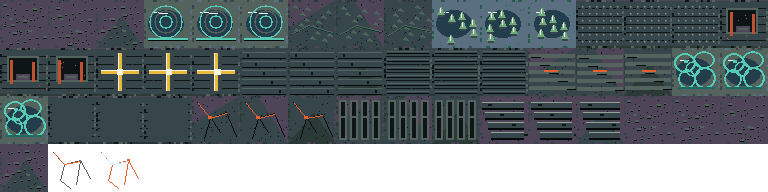
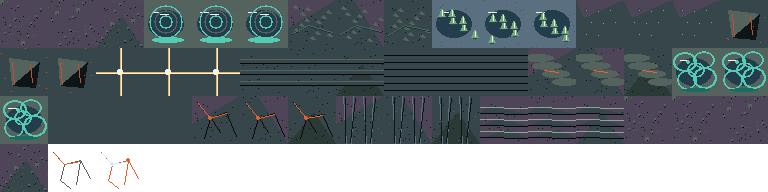
fix: drop square stamps from floor tiles
Remove perimeter edge chips, deck seam grids, and rect grit so walkable ground tiles as scatter, ledges, and strokes instead of a 48px box lattice.

diff --git a/src/art/paint/floors.ts b/src/art/paint/floors.ts
@@ -4,7 +4,7 @@ import { BIOME_FLOOR_TINT, Material, Theme } from '../../scenes/theme';
 import { envPalette } from '../palette';
 import type { Frame } from '../pack';
 import { Px, TILE } from '../px';
-import { biteEdges, grit } from '../shade';
+import { grit } from '../shade';
 
 const SECTORS: SectorId[] = [
   'plains',
@@ -48,6 +48,7 @@ function accentOf(sector: SectorId): number {
   return Theme.inkDim;
 }
 
+/** Continuous bedding — no perimeter chips or seam grid, or every tile stamps squares. */
 function paintBed(px: Px, sector: SectorId, variant: number): void {
   const tint = BIOME_FLOOR_TINT[sector];
   const family = familyOf(sector);
@@ -58,25 +59,18 @@ function paintBed(px: Px, sector: SectorId, variant: number): void {
     if (c === 0) px.fillTriangle(0, 0, TILE, 0, 0, 28, mix(bed, Theme.inkMute, 0.18));
     else if (c === 1) px.fillTriangle(TILE, 0, TILE, TILE, 18, 0, mix(bed, Theme.inkMute, 0.18));
     else px.fillTriangle(0, TILE, TILE, TILE, 26, 16, mix(bed, Theme.groundDeep, 0.2));
-    grit(px, Material.recess, 28, 11 + variant * 9);
-    biteEdges(px, mix(bed, Theme.groundDeep, 0.24), mix(bed, Theme.inkMute, 0.18), variant);
+    grit(px, Material.recess, 22, 11 + variant * 9);
   } else if (family === 'wet') {
     const wet = mix(Material.brine, tint, 0.35);
     px.fillRect(0, 0, TILE, TILE, wet);
     px.fillEllipse(22 + variant, 24, 18, 14, mix(Material.brine, accentOf(sector), 0.18));
-    px.fillRect(8, 12, 9, 1, Theme.inkBright);
-    grit(px, Theme.biolumDeep, 14, 30 + variant);
-    biteEdges(px, mix(wet, Theme.groundDeep, 0.2), mix(wet, Theme.inkBright, 0.12), variant + 3);
+    px.line(8, 12, 16, 12, Theme.inkBright);
+    grit(px, Theme.biolumDeep, 12, 30 + variant);
   } else {
     const deck = mix(Material.deck, tint, 0.16);
     px.fillRect(0, 0, TILE, TILE, deck);
-    px.fillRect(0, 0, TILE, 1, mix(deck, Theme.inkMute, 0.25));
-    px.fillRect(0, TILE - 2, TILE, 2, mix(deck, Theme.groundDeep, 0.28));
-    for (let y = 8; y < 42; y += 8) {
-      px.fillRect(2, y, TILE - 4, 1, Material.recess);
-    }
-    grit(px, Theme.panelEdge, 18, 50 + variant * 4);
-    biteEdges(px, Material.recess, Theme.inkMute, variant + 7);
+    px.fillTriangle(0, 0, TILE, 0, 8, 18, mix(deck, Theme.inkMute, 0.12));
+    grit(px, Theme.panelEdge, 10, 50 + variant * 4);
   }
 }
 
@@ -85,32 +79,29 @@ function motif(px: Px, sector: SectorId, variant: number): void {
   const accent = accentOf(sector);
   switch (sector) {
     case 'plains':
-      for (let i = 0; i < 22; i++) {
-        const x = 3 + ((i * 13 + variant * 7) % 42);
-        const y = 4 + ((i * 17 + variant * 11) % 40);
-        const big = i % 4 === 0;
-        px.fillRect(x, y, big ? 4 : 2, big ? 2 : 1, shade(tint, 0.55));
-        px.fillRect(x, y + (big ? 2 : 1), big ? 4 : 2, 1, Theme.groundDeep);
+      for (let i = 0; i < 10; i++) {
+        const x = 2 + ((i * 13 + variant * 7) % 44);
+        const y = 2 + ((i * 17 + variant * 11) % 44);
+        const r = i % 5 === 0 ? 2.2 : 1.2;
+        px.fillDisc(x, y, r, shade(tint, 0.55));
+        px.set(x, y + 1, Theme.groundDeep);
       }
-      px.fillRect(10 + variant * 2, 18, 3, 2, mix(Material.rock, tint, 0.25));
-      px.fillRect(28 - variant, 30, 4, 2, mix(Material.rock, tint, 0.25));
+      grit(px, mix(Material.rock, tint, 0.3), 16, 70 + variant);
       break;
     case 'ridge':
-      for (let i = 0; i < 4; i++) {
-        const y = 6 + i * 10;
-        const step = i * 3 + (variant % 3);
-        px.fillRect(2 + step, y, TILE - 6 - step, 7, mix(Material.rock, accent, 0.18));
-        px.fillRect(2 + step, y, TILE - 6 - step, 1, accent);
-        px.fillRect(2 + step, y + 6, TILE - 6 - step, 2, Theme.groundDeep);
-        px.fillRect(8 + i * 9 + variant + step, y + 2, 4, 2, Material.recess);
+      for (let i = 0; i < 3; i++) {
+        const y = 10 + i * 12;
+        const peak = 8 + i * 11 + (variant % 5);
+        px.fillTriangle(0, y + 8, TILE, y + 8, peak, y, mix(Material.rock, accent, 0.18));
+        px.line(0, y + 1, TILE - 1, y + 2, accent);
+        px.line(0, y + 7, TILE - 1, y + 8, Theme.groundDeep);
       }
       break;
     case 'canopy':
-      for (let i = 0; i < 14; i++) {
+      for (let i = 0; i < 12; i++) {
         const x = 4 + ((i * 11 + variant * 4) % 38);
         const y = 5 + ((i * 13 + variant * 7) % 34);
         px.fillTriangle(x, y + 3, x + 4, y, x + 7, y + 4, mix(Material.foliage, accent, 0.3));
-        px.fillRect(x + 2, y + 3, 3, 1, Material.foliage);
       }
       px.line(3, 34 + variant, 20, 26, mix(Material.foliage, Theme.groundDeep, 0.35));
       px.line(20, 26, 45, 33 - variant, mix(Material.foliage, Theme.groundDeep, 0.35));
@@ -123,42 +114,41 @@ function motif(px: Px, sector: SectorId, variant: number): void {
       for (let r = 3; r >= 0; r--) {
         px.strokeDisc(cx, cy, 6 + r * 5, r % 2 === 0 ? accent : mix(Material.brine, Theme.inkBright, 0.2));
       }
-      px.fillRect(cx - 7, cy - 9, 9, 1, Theme.inkBright);
-      px.fillRect(4, 38, TILE - 8, 2, accent);
-      px.fillRect(4, 40, TILE - 8, 1, Theme.groundDeep);
+      px.line(cx - 6, cy - 8, cx + 2, cy - 8, Theme.inkBright);
+      px.fillEllipse(24, 40, 16, 3, accent);
       break;
     }
     case 'brine':
       ;[
-        [4, 6, 20, 18],
-        [22, 4, 20, 16],
-        [6, 22, 16, 18],
-        [24, 20, 20, 20],
-        [14, 14, 14, 14],
-      ].forEach(([x, y, w, h], i) => {
+        [14, 14, 11, 9],
+        [32, 12, 10, 8],
+        [14, 32, 9, 9],
+        [34, 30, 11, 10],
+        [24, 22, 8, 7],
+      ].forEach(([cx, cy, rx, ry], i) => {
         const ox = ((i + variant) % 3) - 1;
-        px.strokeEllipse(x + w / 2 + ox, y + h / 2, w / 2, h / 2, mix(accent, Theme.inkMute, 0.25));
+        px.strokeEllipse(cx + ox, cy, rx, ry, mix(accent, Theme.inkMute, 0.25));
       });
-      px.fillRect(12 + variant, 12, 4, 3, accent);
-      px.fillRect(6, TILE - 9, TILE - 12, 2, Theme.biolumDeep);
+      px.fillDisc(16 + variant, 14, 2, accent);
+      px.fillEllipse(24, 42, 14, 2, Theme.biolumDeep);
       break;
     case 'reef':
-      for (let i = 0; i < 7; i++) {
-        const x = 5 + ((i * 11 + variant * 3) % 34);
-        const y = 6 + ((i * 7 + variant * 5) % 30);
-        px.fillRect(x + 1, y + 8, 6, 3, mix(Material.rock, accent, 0.3));
+      for (let i = 0; i < 6; i++) {
+        const x = 6 + ((i * 11 + variant * 3) % 34);
+        const y = 8 + ((i * 7 + variant * 5) % 28);
+        px.fillDisc(x + 4, y + 8, 2.4, mix(Material.rock, accent, 0.3));
         px.fillTriangle(x, y + 9, x + 4, y, x + 8, y + 9, accent);
-        px.fillRect(x + 3, y + 2, 1, 5, Theme.inkBright);
+        px.line(x + 4, y + 2, x + 4, y + 7, Theme.inkBright);
       }
       break;
     case 'ash':
-      for (let i = 0; i < 5; i++) {
-        const y = 6 + i * 8 + (variant % 2);
-        px.fillRect(1, y, 46, 4, mix(Material.debris, tint, 0.28));
-        px.fillRect(1, y, 46, 1, shade(tint, 0.7));
-        px.fillRect(3 + i * 9, y + 3, 10, 1, Theme.groundDeep);
+      for (let i = 0; i < 4; i++) {
+        const cx = 10 + i * 9 + (variant % 2);
+        const cy = 10 + i * 8;
+        px.fillEllipse(cx, cy, 16 - i, 4, mix(Material.debris, tint, 0.28));
+        px.line(cx - 12, cy - 2, cx + 10, cy - 3, shade(tint, 0.7));
       }
-      px.fillRect(16 + variant, 22, 14, 2, Theme.arc);
+      px.line(16 + variant, 22, 30 + variant, 24, Theme.arc);
       break;
     case 'fissure':
       px.line(5, 6, 18, 22, Theme.groundDeep);
@@ -168,66 +158,63 @@ function motif(px: Px, sector: SectorId, variant: number): void {
       px.line(19, 22, 28, 36, Theme.groundDeep);
       px.line(6, 7, 18, 22, accent);
       px.line(18, 22, 34, 17 + variant, accent);
-      px.fillRect(16, 20, 4, 3, Theme.arc);
+      px.fillDisc(18, 22, 2, Theme.arc);
       break;
     case 'approach':
       for (let i = 0; i < 4; i++) {
-        px.fillRect(3 + i * 11 + (variant % 2), 4, 8, 40, mix(Material.debris, tint, 0.22));
-        px.fillRect(5 + i * 11 + (variant % 2), 6, 4, 36, Material.recess);
-        px.fillRect(4 + i * 11, 20, 6, 2, Theme.inkMute);
+        const x = 7 + i * 10 + (variant % 2);
+        const wobble = i % 2 === 0 ? 3 : -2;
+        px.line(x, 0, x + wobble, TILE - 1, mix(Material.debris, tint, 0.4));
+        px.line(x + 2, 2, x + wobble - 1, TILE - 2, Material.recess);
       }
+      grit(px, Theme.inkMute, 8, 40 + variant);
       break;
     case 'trench':
-      for (let i = 0; i < 5; i++) {
-        const y = 4 + i * 9;
-        px.fillRect(2, y, 44, 7, mix(Material.deck, tint, 0.22));
-        px.fillRect(2, y, 44, 1, Theme.inkMute);
-        px.fillRect(2, y + 6, 44, 1, Theme.groundDeep);
-        px.fillRect(7 + i * 8, y + 2, 2, 3, Material.recess);
+      for (let i = 0; i < 3; i++) {
+        const y = 10 + i * 11;
+        px.fillEllipse(24, y + 3, 24, 3, mix(Material.deck, tint, 0.22));
+        px.line(0, y + 1, TILE - 1, y + 1, Theme.inkMute);
+        px.line(0, y + 5, TILE - 1, y + 5, Theme.groundDeep);
       }
       break;
     case 'ruin':
-      px.fillRect(6 + variant, 8, 32, 26, mix(Material.debris, tint, 0.28));
-      px.fillRect(8 + variant, 10, 28, 22, Material.recess);
-      px.fillRect(10, 12, 3, 24, Theme.rust);
-      px.fillRect(32, 14, 3, 20, Theme.rust);
-      px.fillRect(16, 26, 14, 6, Material.debris);
-      px.fillRect(18, 28, 10, 2, Theme.inkMute);
-      grit(px, Theme.rust, 10, 90 + variant);
+      px.fillTriangle(8 + variant, 10, 40, 14, 12, 38, mix(Material.debris, tint, 0.28));
+      px.fillTriangle(40, 14, 36, 40, 12, 38, Material.recess);
+      px.line(12, 14, 14, 36, Theme.rust);
+      px.line(30, 16, 32, 34, Theme.rust);
+      grit(px, Theme.rust, 8, 90 + variant);
       break;
     case 'duct':
       for (let i = 0; i < 6; i++) {
-        px.fillRect(3, 3 + i * 8, 42, 5, mix(Material.conduit, tint, 0.18));
-        px.fillRect(3, 5 + i * 8, 42, 1, Theme.groundDeep);
-        px.fillRect(3, 3 + i * 8, 42, 1, Theme.inkMute);
+        const y = 6 + i * 7;
+        px.line(0, y, TILE - 1, y, mix(Material.conduit, tint, 0.28));
+        px.line(0, y + 1, TILE - 1, y + 1, Theme.groundDeep);
       }
       break;
     case 'spire':
-      for (let y = 5; y < 44; y += 7) {
-        for (let x = 5; x < 44; x += 7) {
-          px.fillRect(x, y, 4, 4, Theme.panelEdge);
-          px.fillRect(x + 1, y + 1, 2, 2, Theme.inkMute);
-          px.set(x + 1, y + 1, Theme.inkDim);
-        }
+      for (let i = 0; i < 8; i++) {
+        const col = i % 3;
+        const row = Math.floor(i / 3);
+        const x = 10 + col * 12 + ((row + variant) % 2) * 5;
+        const y = 10 + row * 12 + (col % 2);
+        px.fillDisc(x, y, 1.8, Theme.panelEdge);
+        px.set(x, y, Theme.inkDim);
       }
       break;
     case 'vault':
-      for (let i = 0; i < 5; i++) {
-        const y = 5 + i * 8;
-        px.fillRect(4, y, 40, 6, mix(Material.deck, Theme.arcWhite, 0.1));
-        px.fillRect(4, y, 40, 1, Theme.panelEdge);
-        px.fillTriangle(6, y + 1, 16, y + 5, 26, y + 1, Theme.panelEdge);
-        px.fillTriangle(22, y + 1, 32, y + 5, 42, y + 1, Theme.panelEdge);
+      for (let i = 0; i < 4; i++) {
+        const y = 8 + i * 9;
+        px.line(0, y + 2, 16, y + 5, Theme.panelEdge);
+        px.line(16, y + 5, 32, y, Theme.panelEdge);
+        px.line(32, y, TILE - 1, y + 3, Theme.panelEdge);
       }
       break;
     case 'beacon':
-      px.fillRect(3, 18, 42, 12, mix(Material.deck, Theme.tape, 0.18));
-      px.fillRect(18, 3, 12, 42, mix(Material.deck, Theme.tape, 0.18));
-      px.fillRect(5, 22, 38, 4, Theme.tape);
-      px.fillRect(22, 5, 4, 38, Theme.tape);
-      px.fillRect(5, 22, 38, 1, Theme.inkBright);
-      px.fillRect(22, 5, 1, 38, Theme.inkBright);
-      px.fillRect(21 + variant, 21, 6, 6, Theme.inkBright);
+      px.line(0, 24, TILE - 1, 24, Theme.tape);
+      px.line(0, 25, TILE - 1, 25, Theme.inkBright);
+      px.line(24, 0, 24, TILE - 1, Theme.tape);
+      px.line(25, 0, 25, TILE - 1, Theme.inkBright);
+      px.fillDisc(24, 24, 3, Theme.inkBright);
       break;
   }
 }
@@ -253,8 +240,8 @@ function paintCrack(urgent: boolean): Px {
   px.line(6, 9, 16, 20, hot);
   px.line(16, 20, 32, 17, hot);
   if (urgent) {
-    px.fillRect(15, 19, 3, 2, Theme.arcWhite);
-    px.fillRect(31, 15, 3, 2, Theme.arc);
+    px.fillDisc(16, 20, 1.6, Theme.arcWhite);
+    px.fillDisc(32, 16, 1.6, Theme.arc);
     px.set(22, 42, Theme.arcWhite);
   }
   px.snap(envPalette());

diff --git a/src/art/shade.ts b/src/art/shade.ts
@@ -61,18 +61,6 @@ export function grit(
   }
 }
 
-/** Irregular edge chips so a tile doesn't stamp a ruler. */
-export function biteEdges(px: Px, dark: number, light: number, seed: number): void {
-  for (let i = 0; i < 5; i++) {
-    const along = 4 + ((i * 11 + seed * 7) % 38);
-    const span = 2 + ((i + seed) % 3);
-    px.fillRect(along, 0, span, 2, i % 2 === 0 ? dark : light);
-    px.fillRect(along + 1, px.h - 2, span, 2, i % 2 === 0 ? light : dark);
-    px.fillRect(0, along, 2, span, dark);
-    px.fillRect(px.w - 2, along + 1, 2, span, light);
-  }
-}
-
 /** Contact plant into leftover transparent cells — never outlined. */
 export function plantShadow(px: Px): void {
   for (let y = 38; y < 46; y++) {
